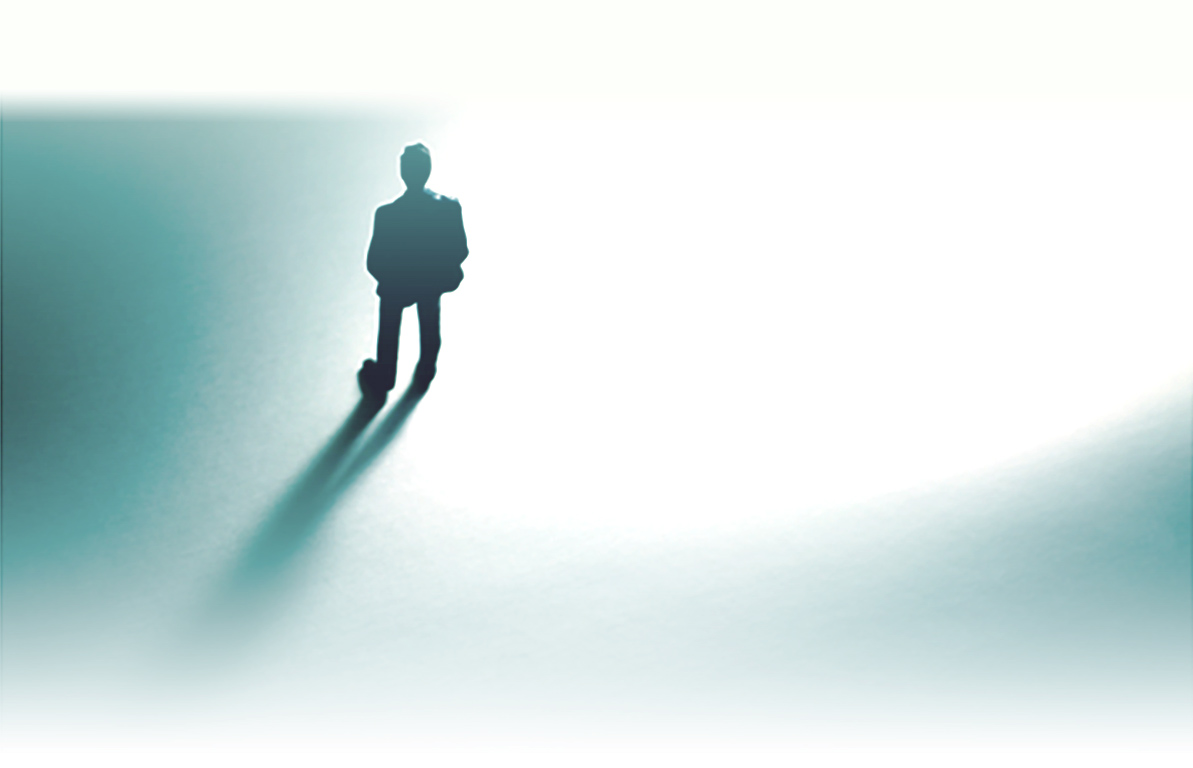
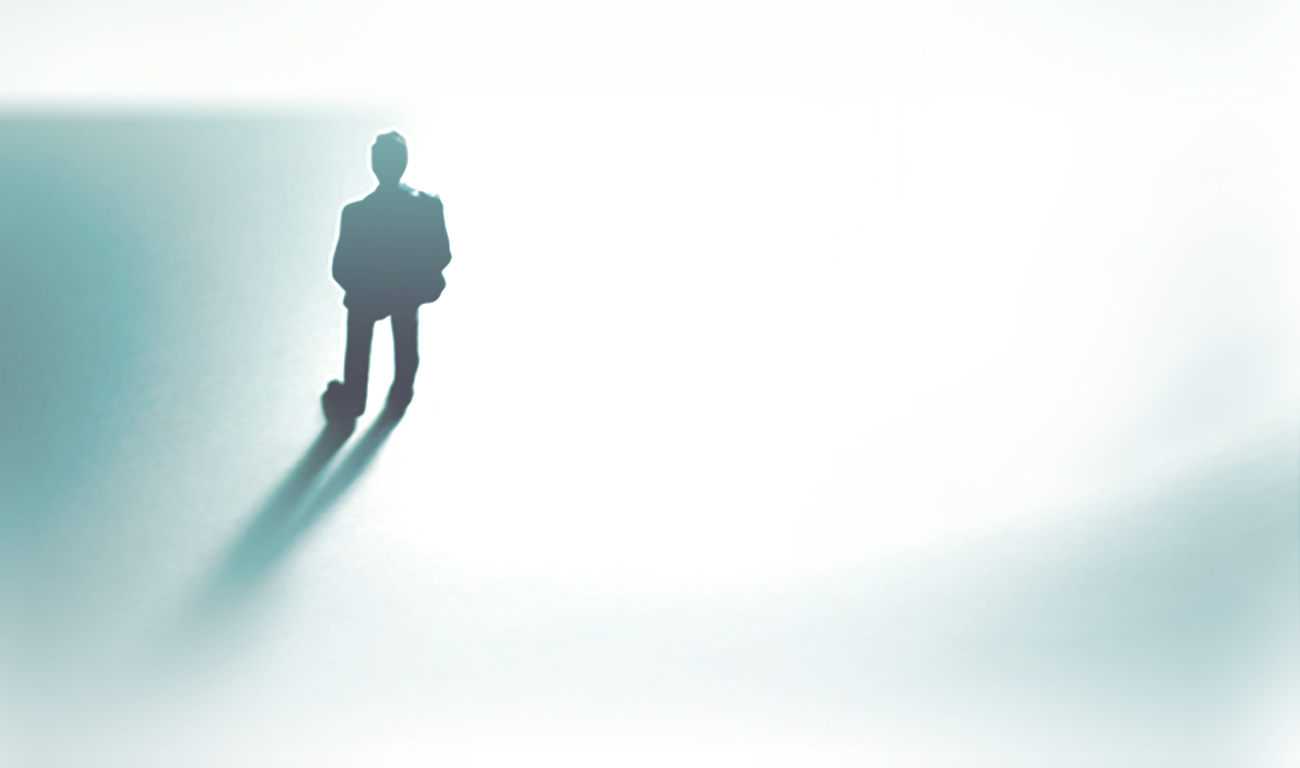
replace background image

diff --git a/web/stylesheets/main.css b/web/stylesheets/main.css
@@ -1,5 +1,5 @@
 body {
-  background: #fff url(https://s22.postimg.org/p380l7qhd/ubm_like_bg.jpg) no-repeat center;
+  background: #fff url(https://s13.postimg.org/90phw8tuf/ubm_like_bg.jpg) no-repeat center;
   font: 0.75em Arial,Helvetica,Verdana;
   color: #58585a;
   line-height: 1.3;

diff --git a/web/index.php b/web/index.php
@@ -19,11 +19,10 @@ $app->register(new Silex\Provider\TwigServiceProvider(), array(
 
 $app->get('/', function() use($app) {
   $app['monolog']->addDebug('logging output.');
-  $don= getenv("FOURSQUARE_CLIENT_ID");
-  $secret = getenv("FOURSQUARE_SECRET");
+  getenv('FOURSQUARE_CLIENT_ID')
+  getenv('FOURSQUARE_SECRET')
   // return
-  // array('id' => $id, 'secret' => $secret)
-  return $app['twig']->render('index.twig', array("don" => $don));
+  return $app['twig']->render('index.twig');
 });
 
 $app->run();
